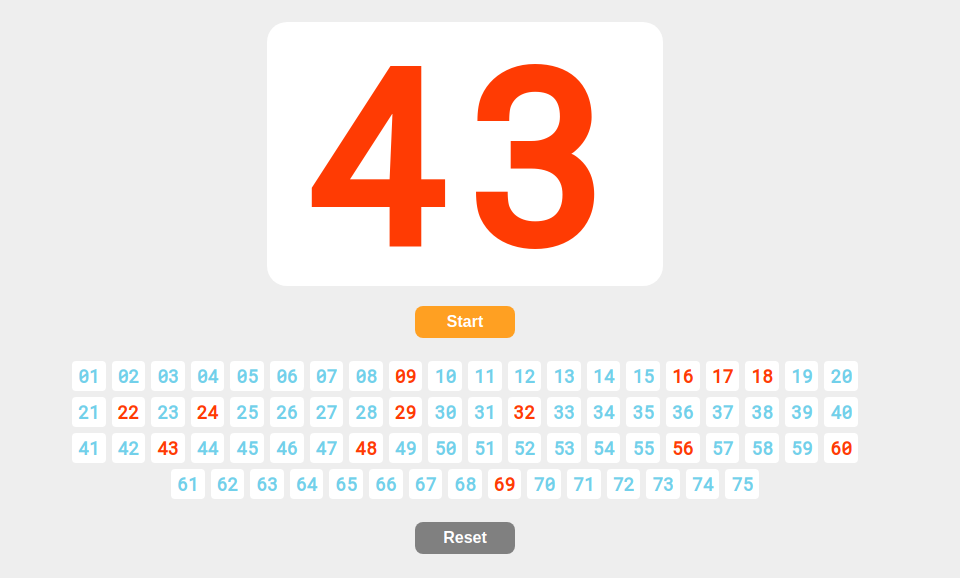
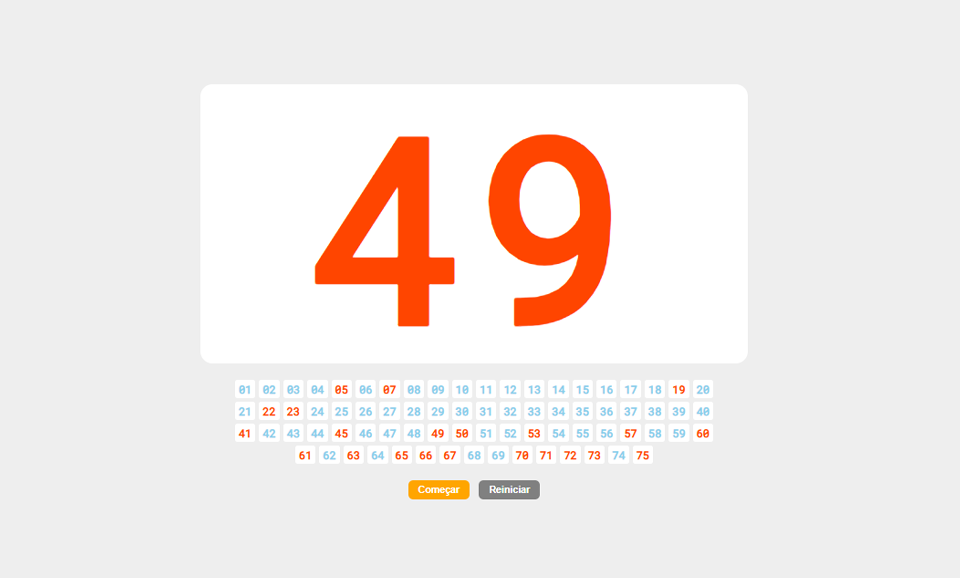
Ajuste na imagem LICENSE E README

diff --git a/README.md b/README.md
@@ -1,4 +1,8 @@
+<div align="center">
+
 # Bingo Fest! 🎱
+
+</div>
 
 Sorteador de números de bingo, simples, leve e sem necessidade de instalação — basta abrir o `index.html` no navegador ou publicar como site estático.
 
@@ -17,7 +21,7 @@ Sorteador de números de bingo, simples, leve e sem necessidade de instalação 
 
 1. Clone o repositório:
    ```bash
-   git clone https://github.com/<seu-usuario>/bingofest.git
+   git clone https://github.com/<seu-usuario>/bingo-fest.git
    cd bingofest
    ```
 2. Abra o `index.html` diretamente no navegador, ou sirva a pasta com qualquer servidor estático, por exemplo:
@@ -40,7 +44,7 @@ O valor deve ser um inteiro entre 1 e 999 (fora desse intervalo, o padrão de 75
 ## 🗂 Estrutura do projeto
 
 ```
-bingofest/
+bingo-fest/
 ├── assets/         # imagens, sons e bibliotecas vendorizadas (Vue, Lodash)
 ├── css/            # estilos
 ├── js/
@@ -58,9 +62,14 @@ bingofest/
 - [Lodash](https://lodash.com/) (utilitários)
 - HTML5 / CSS3 puro
 
-## 🔊 Créditos
+## 👤 Autor
 
-Efeitos sonoros por [Maoudamashii](http://en.maoudamashii.com/) (ver licença de uso em [LICENSE](LICENSE)).
+**Marcus Guarani**
+
+[![GitHub](https://img.shields.io/badge/GitHub-marcusguarani-181717?style=flat&logo=github)](https://github.com/marcusguarani)
+[![LinkedIn](https://img.shields.io/badge/LinkedIn-marcusguarani-0A66C2?style=flat&logo=linkedin)](https://www.linkedin.com/in/marcusguarani)
+[![Portfólio](https://img.shields.io/badge/Portf%C3%B3lio-marcusguarani.com.br-000000?style=flat&logo=googlechrome&logoColor=white)](https://marcusguarani.com.br)
+
 
 ## 📄 Licença
 
